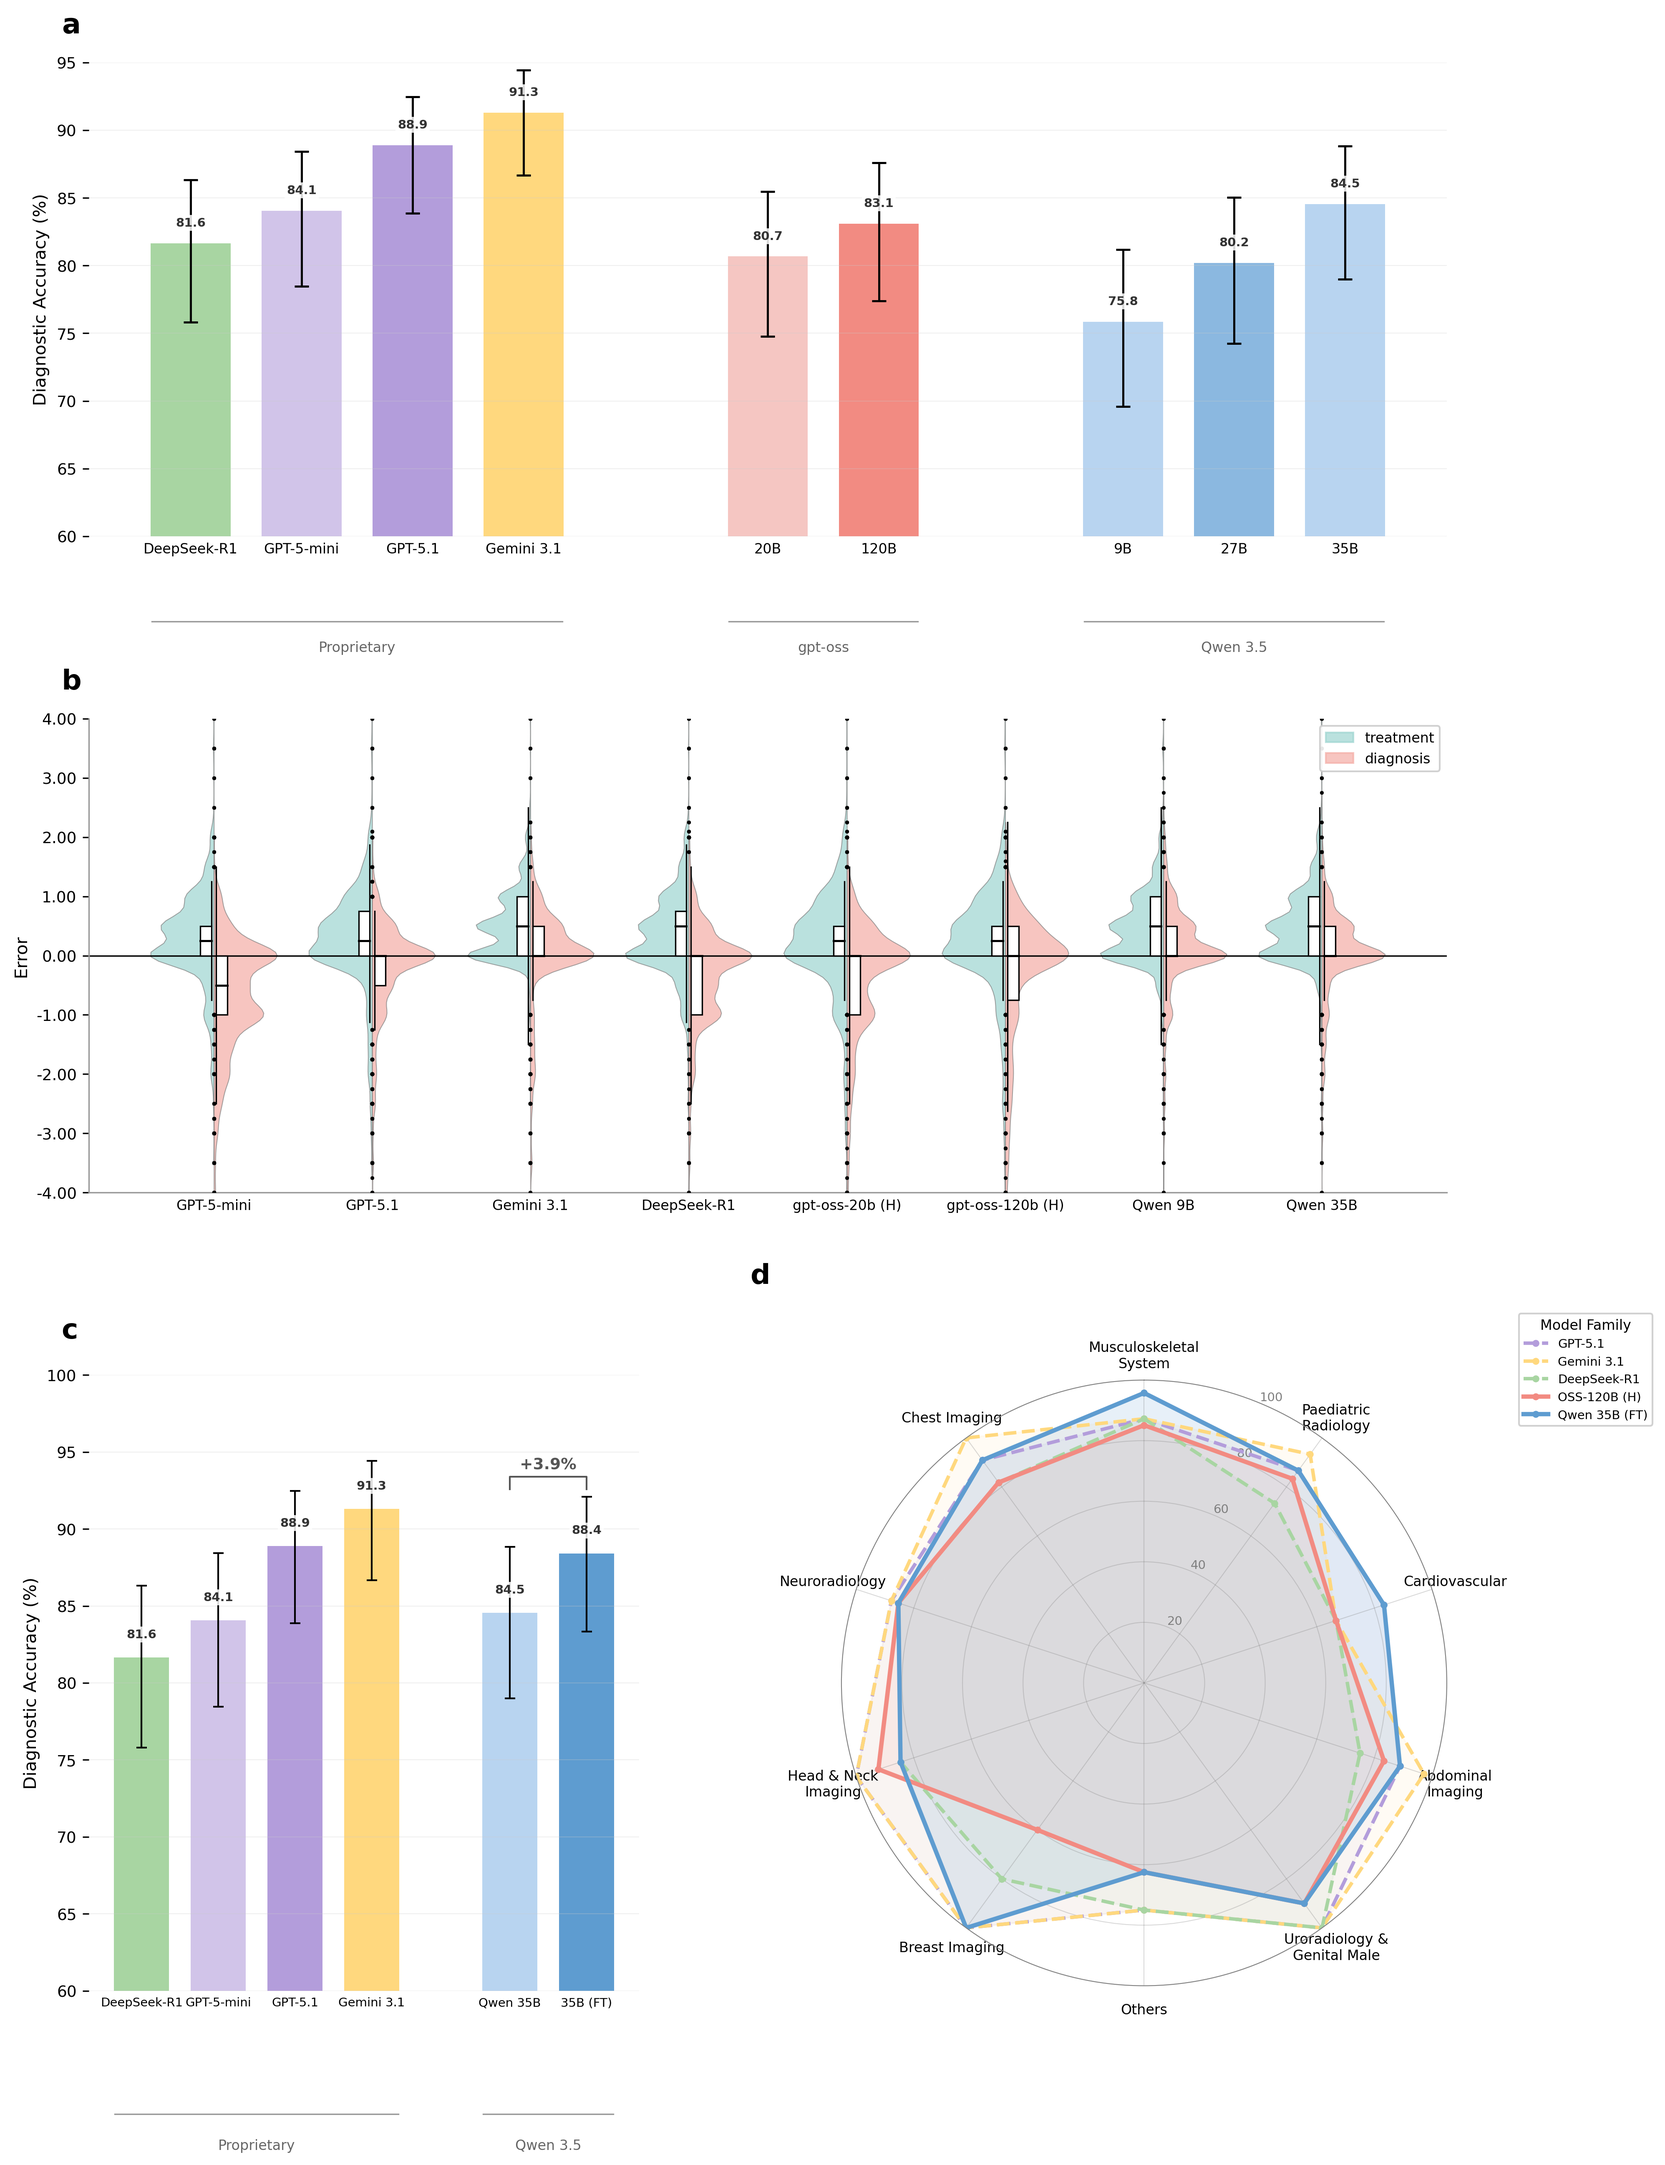
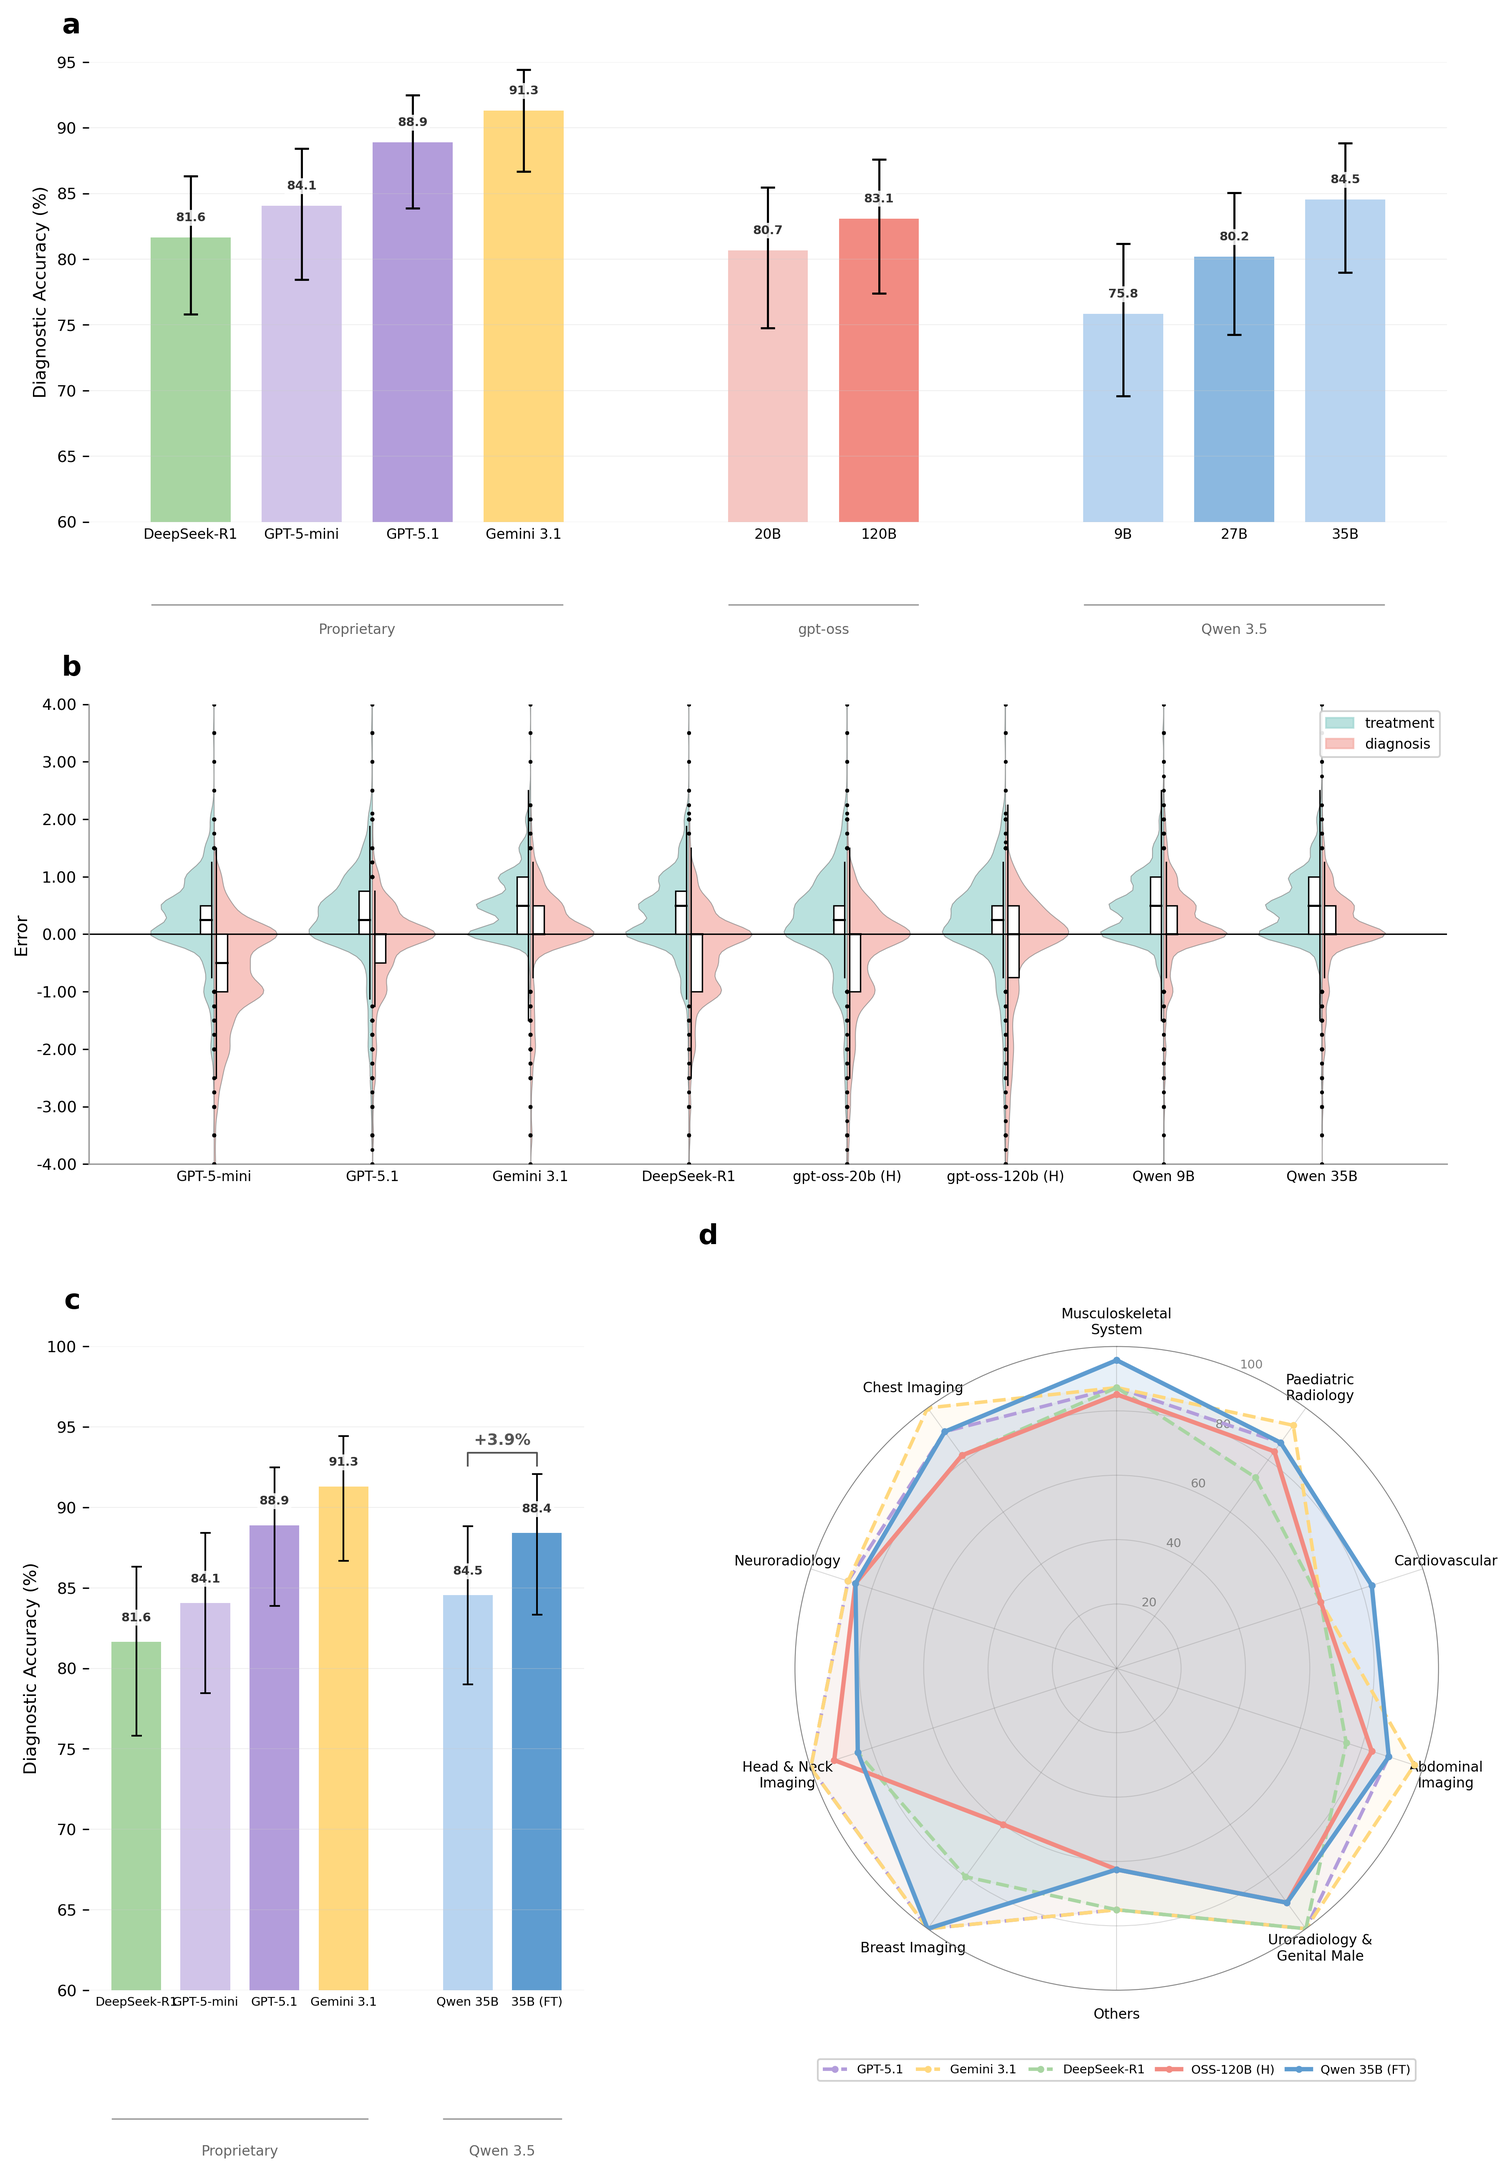
Move radar legend to bottom, regenerate combined figure
- Radar plot legend now horizontal below chart instead of stacked right
- Gives radar more room, reduces wasted right margin
- Also includes updated fig3 heatmap and main.tex corrections

diff --git a/main.tex b/main.tex
@@ -198,7 +198,7 @@ Others            & \best{\acc{75.0}} & \best{\acc{75.0}} & \best{\acc{75.0}} & 
 \end{table}
 
 
-Table~\ref{tab:ophthalmology_results} presents the model performance of the LLM-as-a-specialist task on the ophthalmology QA dataset. The open-source model DeepSeek-R1 achieved the highest overall accuracy of 79.2\% (95\% CI: 71.5--85.3\%), demonstrating particularly strong capabilities in diagnosis (92.3\%; 95\% CI: 79.7--97.3\%) and management (73.6\%; 95\% CI: 63.7--81.6\%). Remarkably, the on-device gpt-oss-120b (M) model secured the second-highest rank with an overall accuracy of 77.7\% (95\% CI: 69.8--84.0\%), surpassing the proprietary GPT-5.1 (76.9\%) and GPT-5-mini (67.7\%) baselines. This performance underscores the capacity of locally deployed large models to rival state-of-the-art proprietary systems in specialty-specific medical reasoning. While the smaller gpt-oss-20b variants showed a performance gap, with the best-performing gpt-oss-20b (H) achieving 66.2\% (95\% CI: 57.7--73.7\%), they remained competitive in specific subtasks (e.g., Refractive Disorders or Strabismus). Across all evaluated architectures, models consistently demonstrated higher performance in diagnosis compared to patient management, reflecting the increased complexity of treatment planning in specialty care.
+Table~\ref{tab:ophthalmology_results} presents the model performance of the LLM-as-a-specialist task on the ophthalmology QA dataset (Table~\ref{tab:ophthalmology_results}). The open-source model DeepSeek-R1 achieved the highest overall accuracy of 79.2\% (95\% CI: 71.5--85.3\%), demonstrating particularly strong capabilities in diagnosis (92.3\%; 95\% CI: 79.7--97.3\%) and management (73.6\%; 95\% CI: 63.7--81.6\%). Remarkably, the on-device gpt-oss-120b (M) model secured the second-highest rank with an overall accuracy of 77.7\% (95\% CI: 69.8--84.0\%), surpassing the proprietary GPT-5.1 (76.9\%) and GPT-5-mini (67.7\%) baselines. This performance underscores the capacity of locally deployed large models to rival state-of-the-art proprietary systems in specialty-specific medical reasoning. While the smaller gpt-oss-20b variants showed a performance gap, with the best-performing gpt-oss-20b (H) achieving 66.2\% (95\% CI: 57.7--73.7\%), they remained competitive in specific subtasks (e.g., Refractive Disorders or Strabismus). Across all evaluated architectures, models consistently demonstrated higher performance in diagnosis compared to patient management, reflecting the increased complexity of treatment planning in specialty care.
 
 
 Fig.~\ref{fig:2}b shows the evaluation results of models acting as clinical judges (Table~\ref{tab:specialty_results_with_total}), measured by the median relative error (interquartile range) between the model's consensus score and human expert consensus. For diagnostic assessment, GPT-5.1 and Gemini 3.1 achieved a median error of 0.00 (IQR: -0.50--0.10 and 0.00--0.50, respectively), while GPT-5-mini exhibited more pronounced systematic underestimation (median error: -0.50, IQR: -1.10--0.00). The on-device gpt-oss-120b (H) demonstrated comparable alignment, achieving a median diagnostic error of 0.00 (IQR: -0.50--0.27). Notably, all three Qwen3.5 models also achieved a median diagnostic error of 0.00, matching the best-performing proprietary models in alignment with human expert scores. For treatment-related judgments, the gpt-oss models showed the lowest median errors (gpt-oss-20b H: 0.17, IQR: -0.29--0.50; gpt-oss-120b H: 0.17, IQR: -0.17--0.50), while GPT-5-mini (0.25), DeepSeek-R1 (0.25), and GPT-5.1 (0.33) showed moderate overestimation. The Qwen3.5 and Gemini models showed higher treatment errors (median 0.50), reflecting the open-ended and subjective nature of treatment evaluation.
